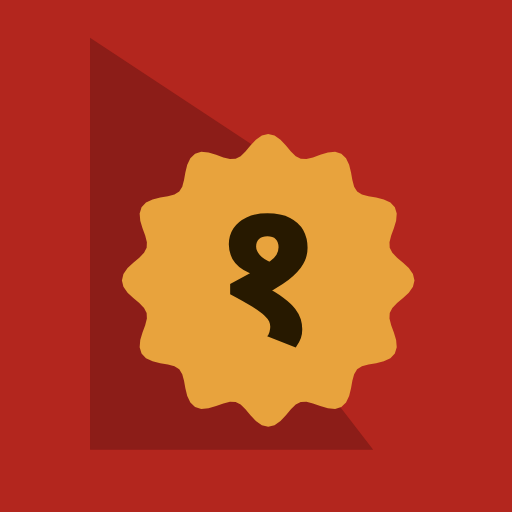
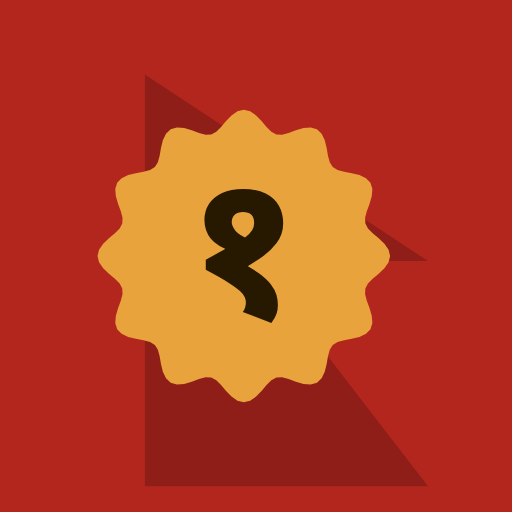
feat(android): sun casting a pennant shadow, and a flag splash
The icon's pennant is now a soft shadow the sun casts. The splash shows the full
Nepal flag on the surface, larger and without the icon circle, growing in while
its sun turns.

Changed region(s): [[0.1562, 0.0625, 0.8438, 0.9688], [0.375, 0.3438, 0.625, 0.6875]]

diff --git a/docs/assets/README-icon.md b/docs/assets/README-icon.md
@@ -1,8 +1,8 @@
 # NepDate app icon
 
 `nepdate-app-icon.svg` is the master artwork. It uses the 108 unit Android adaptive icon grid:
-a sindoor (`#B3261E`) background, the Nepal flag pennant as a deeper red shade (`#8C1D18`), and a
-marigold (`#E8A33D`) twelve ray sun holding the Devanagari numeral one in ink (`#271900`). The sun
+a sindoor (`#B3261E`) background, a marigold (`#E8A33D`) twelve ray sun holding the Devanagari numeral one in ink (`#271900`), casting the Nepal
+flag pennant as a soft shadow (black at 20 percent) down and to the right. The sun
 is the same today marker the app and widgets use, so the icon reads as "the date" first and
 "Nepal" second.
 
@@ -10,13 +10,13 @@ The numeral is fixed. Standard Android launchers cannot redraw a third-party app
 
 ## Geometry
 
-- Pennant shade: the flag pennant `36.4,28.4 71.6,51.6 50,51.6 71.6,79.6 36.4,79.6`, scaled
-  1.32 about 54,54 and moved by -4,-2. It runs past the safe circle on purpose: it is a tone
+- Pennant shadow: the flag pennant `36.4,28.4 71.6,51.6 50,51.6 71.6,79.6 36.4,79.6`, scaled
+  1.32 about 54,54 and moved by 5,4. It runs past the safe circle on purpose: it is a shadow
   behind the sun, and launcher masks crop it.
-- Sun: 12 lobes around 56,58, outer radius 24, inner radius 0.86 of that, sampled 12 points per
+- Sun: 12 lobes around 52,54, outer radius 24, inner radius 0.86 of that, sampled 12 points per
   lobe. It sits inside the 33 unit safe circle.
 - Numeral: the glyph `१` from Noto Sans Devanagari at weight 800, scaled to 22 units tall and
-  centred on 56,58.
+  centred on 52,54.
 
 ## Exports
 
@@ -25,6 +25,6 @@ The numeral is fixed. Standard Android launchers cannot redraw a third-party app
 | `android/app/src/main/res/drawable/ic_launcher_foreground.xml` | The three SVG paths, with colours from `ic_launcher_shade`, `ic_launcher_sun` and `ic_launcher_ink`. |
 | `android/app/src/main/res/values/colors.xml` `ic_launcher_background` | The SVG background colour, used as the adaptive icon background layer. |
 | `android/app/src/main/res/drawable/ic_launcher_monochrome.xml` | The sun and numeral as one path with `fillType="evenOdd"`, so the numeral is a hole in the sun for themed icons. |
-| `android/app/src/main/res/drawable/splash_icon.xml` | The foreground again, with the sun in a group pivoting on 56,58 and the numeral outside it so it stays upright. |
-| `android/app/src/main/res/drawable/splash_icon_animated.xml` | Turns the sun group 0 to 30 degrees in 500 ms with the overshoot interpolator. |
+| `android/app/src/main/res/drawable/splash_icon.xml` | Not the launcher mark: the full Nepal flag (crimson `#DC143C`, blue border `#003893`, white crescent and sun) on the splash surface with no icon background, scaled 1.08 so it fills the 36 unit circle. |
+| `android/app/src/main/res/drawable/splash_icon_animated.xml` | Grows the flag from 0.93 to 1.08 and turns its sun 30 degrees, 500 ms, overshoot interpolator. |
 | `nepdate-play-icon-512.png` | The SVG with its view box cropped to `12 12 84 84`, rendered at 512 x 512 in a headless browser. |
